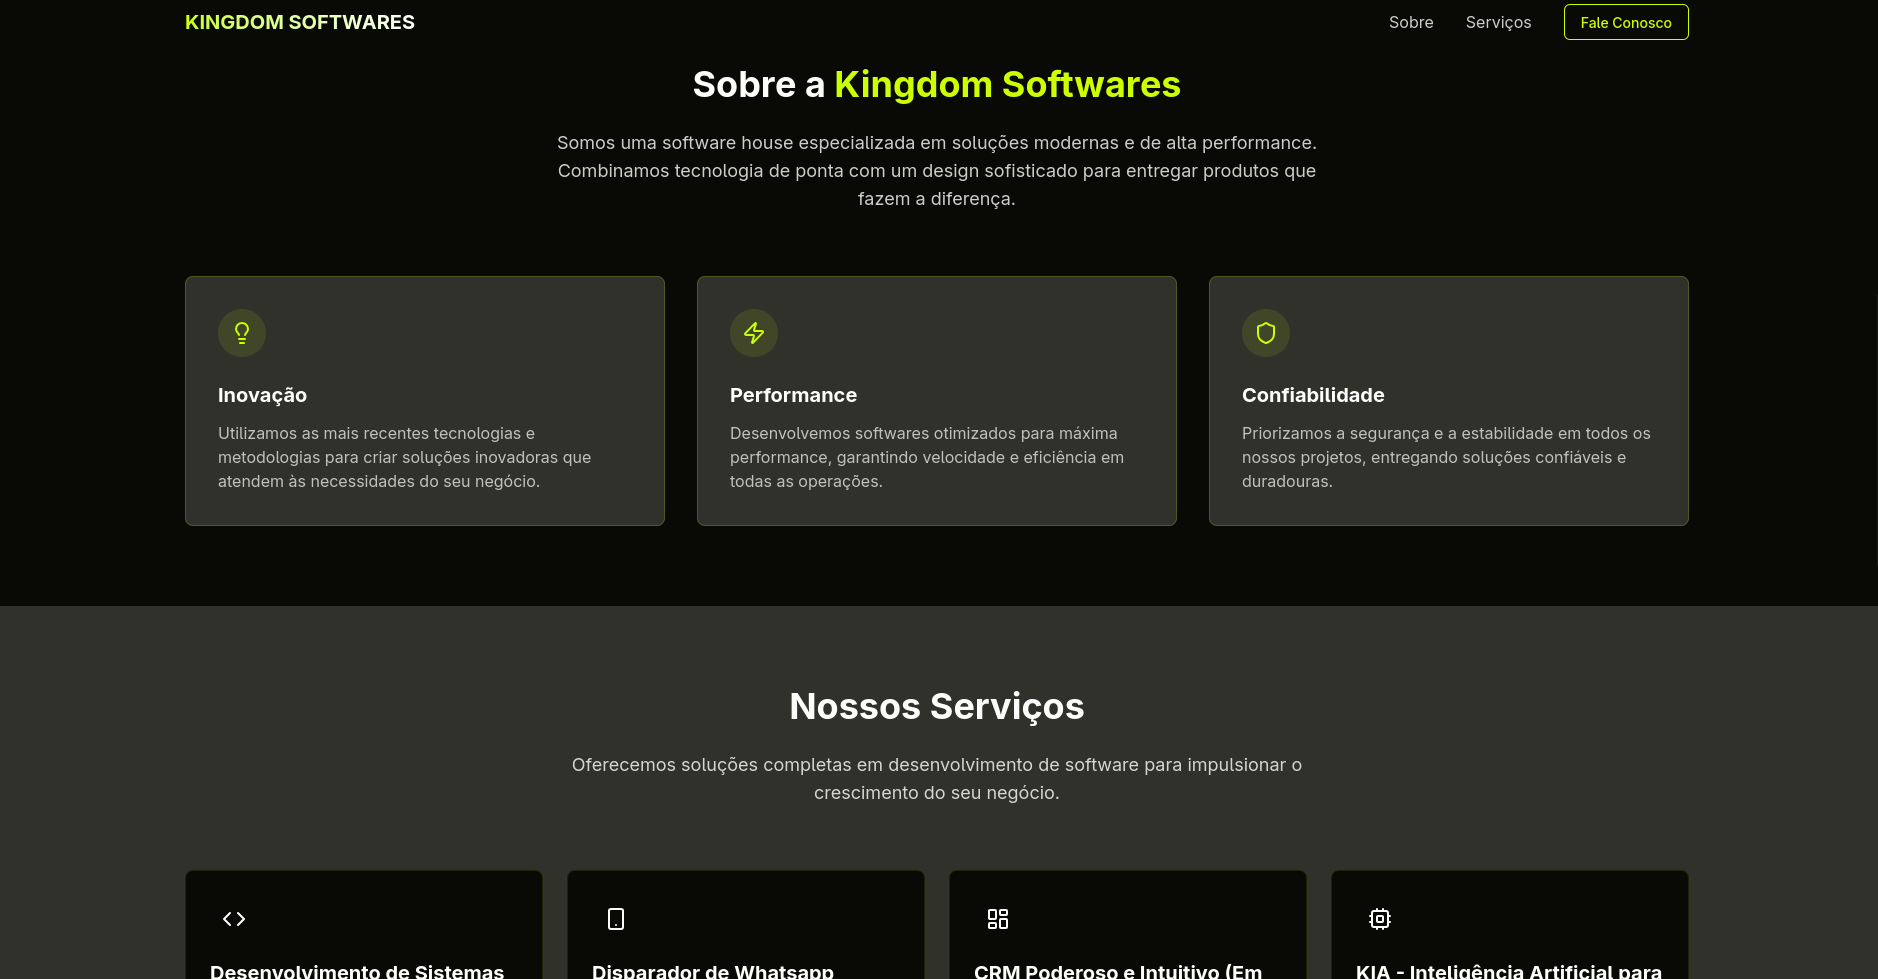
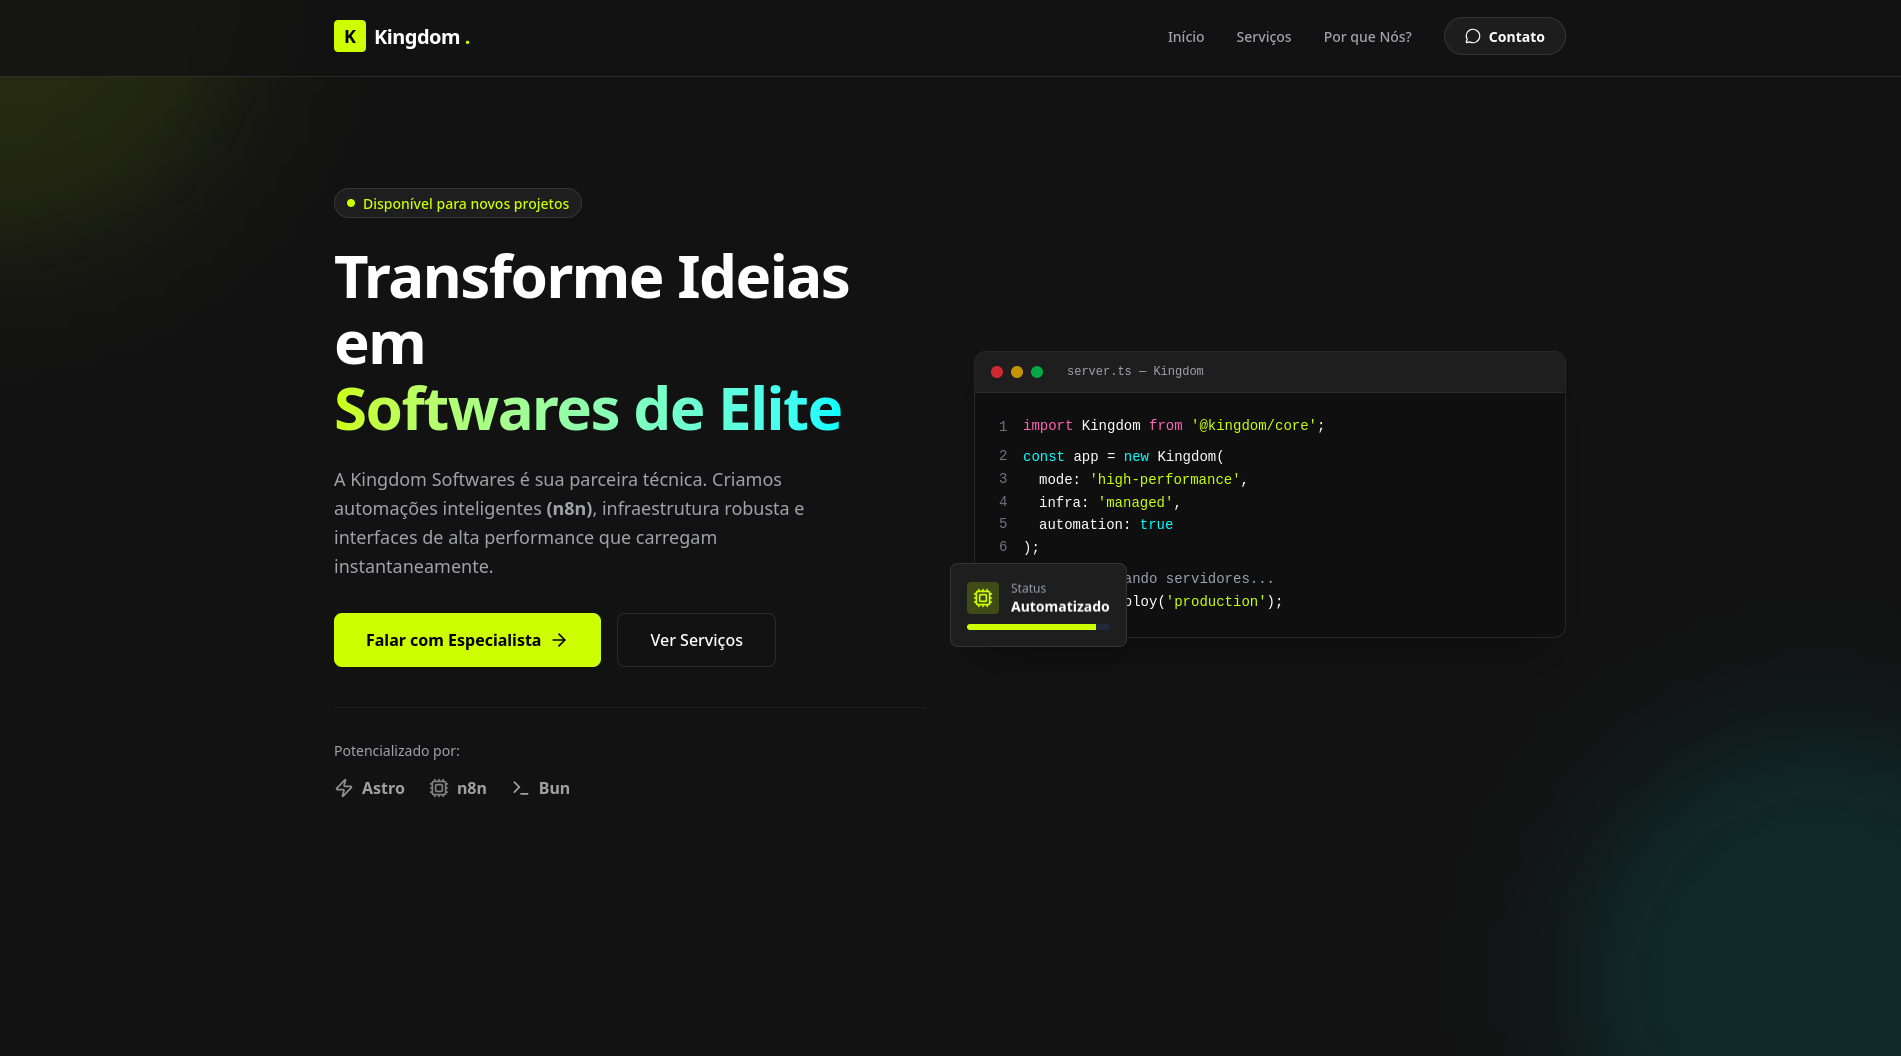
feat: replace projects with kori, goalfy and kingdom softwares

diff --git a/src/i18n/locales/pt-br.ts b/src/i18n/locales/pt-br.ts
@@ -48,14 +48,17 @@ export const ptBR = {
     seeGithub: "Ver todos os repositórios no GitHub",
     test: "Testar",
     code: "Código",
+    docs: "Docs",
     private: "Privado",
     privateCode: "Código Privado",
     completed: "Concluído",
     inDevelopment: "Em Desenvolvimento",
     items: {
-      pulseGuard:
-        "Status Page para monitoramento de serviços em tempo real, com histórico de incidentes e métricas de disponibilidade. Focado em performance, transparência e detecção rápida de falhas.",
-      wilo: "Plataforma de automação e gestão de campanhas com inteligência artificial, oferecendo organização, produtividade e insights em tempo real.",
+      kori: "Toolkit HTTP para Go construído sobre o Chi — inspirado no Hono e feito para ser idiomático em Go. Simplifica a criação de APIs rápidas, organizadas e tipadas.",
+      goalfy:
+        "CRM 360 com IA, WhatsApp e automações para operações de vendas, feito para o vendedor brasileiro. Onde atuo atualmente como desenvolvedor.",
+      kingdom:
+        "Software house focada em excelência técnica e inovação, onde atuo como fundador construindo soluções sob medida.",
       forge:
         "CRM com integração nativa ao WhatsApp, centralizando leads, conversas e rotinas comerciais em um único sistema rápido e escalável.",
     },

diff --git a/src/i18n/locales/en.ts b/src/i18n/locales/en.ts
@@ -50,14 +50,17 @@ export const en: Dictionary = {
     seeGithub: "View all repositories on GitHub",
     test: "Test",
     code: "Code",
+    docs: "Docs",
     private: "Private",
     privateCode: "Private Code",
     completed: "Completed",
     inDevelopment: "In Development",
     items: {
-      pulseGuard:
-        "Status page for real-time service monitoring, with incident history and availability metrics. Focused on performance, transparency, and rapid fault detection.",
-      wilo: "A platform for campaign automation and management powered by artificial intelligence, offering organization, productivity, and real-time insights.",
+      kori: "HTTP toolkit for Go built on top of Chi — inspired by Hono and made idiomatic in Go. It makes building fast, organized and typed APIs simple.",
+      goalfy:
+        "CRM 360 with AI, WhatsApp and automations for sales operations, built for Brazilian sales teams. Where I currently work as a developer.",
+      kingdom:
+        "Software house focused on technical excellence and innovation, where I work as founder building tailor-made solutions.",
       forge:
         "CRM with native WhatsApp integration, centralizing leads, conversations, and sales routines in a single, fast, and scalable system.",
     },
